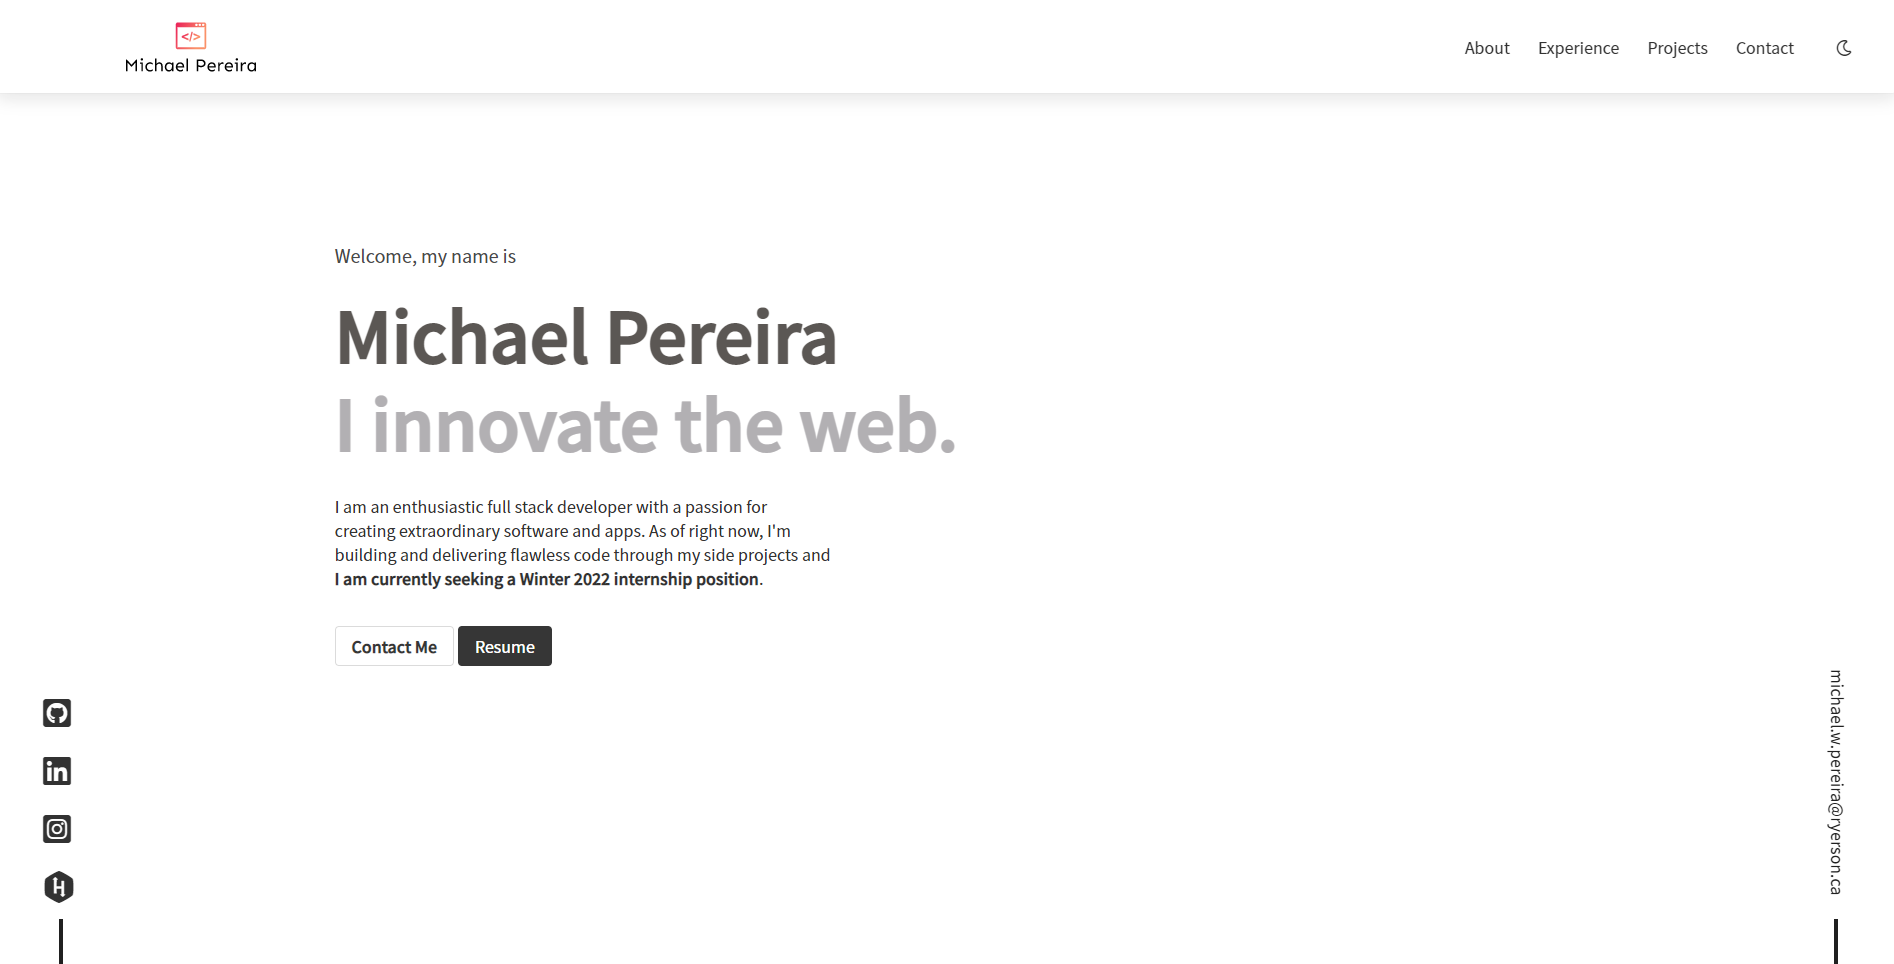
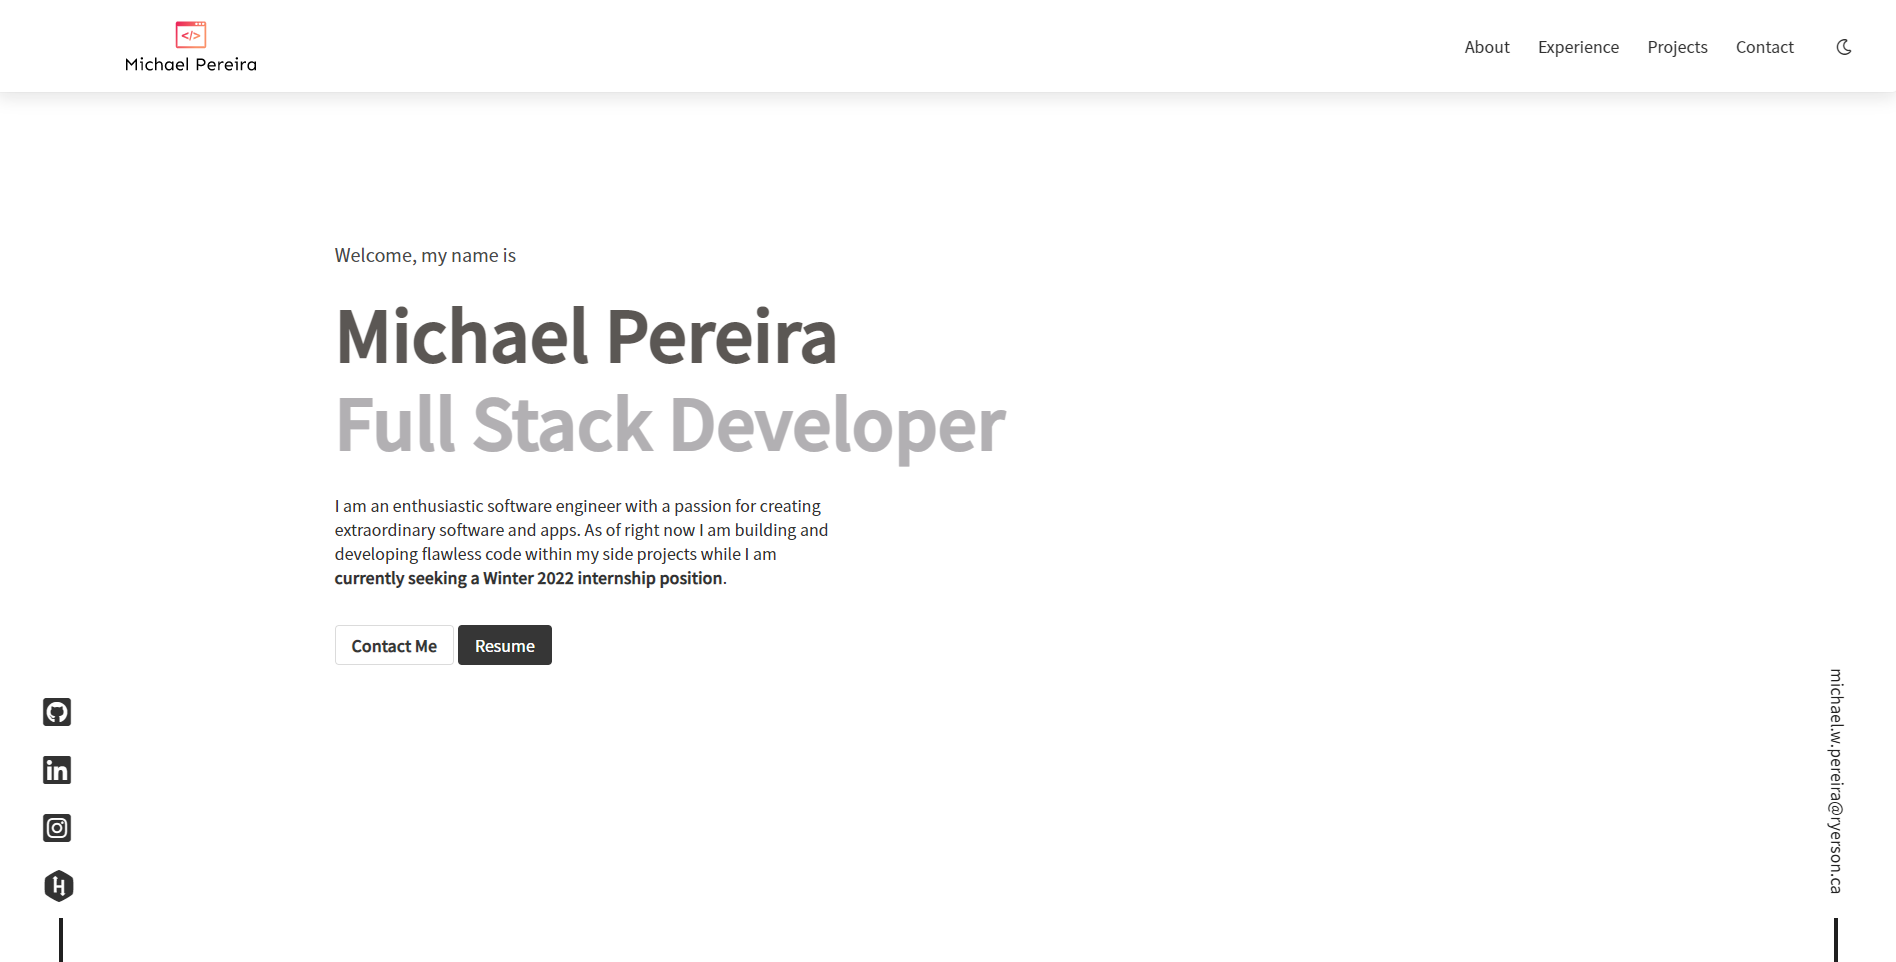
Updating darkmode, Updating site image, Updating projects, Updating hero

diff --git a/components/sections/Hero.vue b/components/sections/Hero.vue
@@ -7,9 +7,9 @@
         <h2 class='title is-size-3-mobile'>Full Stack Developer</h2>
         <div class='columns'>
           <div class='column is-5-fullhd is-6-widescreen is-7-desktop is-8-tablet is-12-mobile'>
-            <p class='is-size-6 mt-5'>I am an enthusiastic full stack developer with a passion for creating extraordinary
-              software and apps. Currently I am building and developing flawless code through my many side projects
-              while <b>I am currently seeking a Winter 2022 internship position</b>.
+            <p class='is-size-6 mt-5'>I am an enthusiastic software engineer with a passion for creating extraordinary
+              software and apps. As of right now I am building and developing flawless code within my side projects
+              while I am <b>currently seeking a Winter 2022 internship position</b>.
             </p>
           </div>
         </div>
@@ -53,10 +53,6 @@ h2 {
   color: #b2b0b3;
 }
 
-.is-size-3-mobile {
-  font-size: 1.8rem !important;
-}
-
 .title {
   margin-bottom: 10px;
 }
@@ -83,8 +79,12 @@ h2 {
     line-height: 2rem;
   }
 
+  .is-size-3-mobile {
+    font-size: 1.8rem !important;
+  }
+
   .hero-section {
-    padding-top: 0px;
+    padding-top: 0;
   }
 }
 </style>

diff --git a/assets/scss/dark-mode.scss b/assets/scss/dark-mode.scss
@@ -3,7 +3,7 @@ html {
     background-color: $dark-mode-background-color;
 
     h2 {
-      color: #2d3140 !important;
+      color: #74798e !important;
     }
 
     .box {
